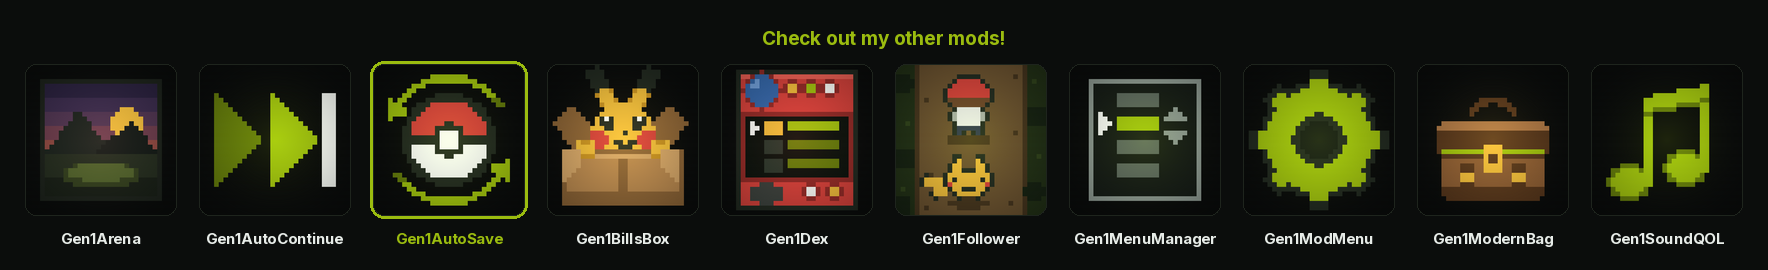
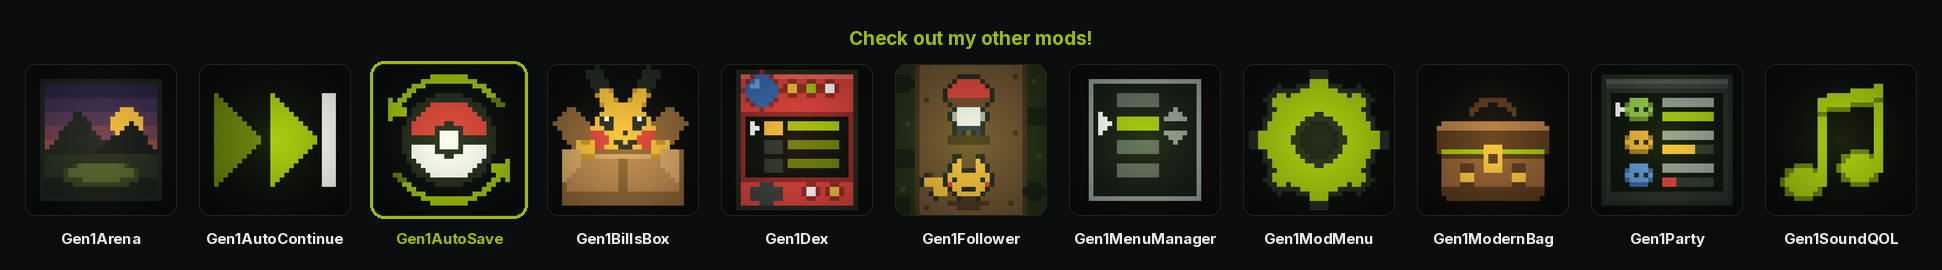
Add Gen1Party to the index, and correct Gen1Dex's entry
Gen1Party is the eleventh mod: mods/Wild@Gen1Party with its meta, its
description and the icon tools/make_icons.py now draws for it -- a party
screen with three members in three different colours and the three HP bar
states the game actually shows, which is the mod's whole argument in one
picture. Three rows rather than six because six at this size are six stripes,
and the point being made is that the rows differ from each other.

The lineup strips are regenerated, so every per-mod banner now carries eleven
tiles instead of ten and site/banners/lineup-Gen1Party.png exists for that
repo to point at. Redrawing all eleven icons leaves the other ten
byte-identical, which is what make_icons.py promises and worth having
confirmed rather than assumed.

site/data/index.json is deliberately NOT in this commit. build_index.py owns
it and the Build index workflow commits it with a token; running it here
without one 403s on most repos' releases, and committing that would publish a
feed describing errors instead of versions. A push touching mods/** is exactly
what triggers the rebuild.

Also corrects the Gen1Dex entry, which still described the mod as it shipped
at 1.0.0: the entry pages are walked with LEFT and RIGHT now rather than
cycled with A, the list draws six rows rather than seven since it gained its
header and footer boxes, and six palettes are on screen at once rather than
seven. Its version seed follows to 1.1.0, though the feed resolves that from
Releases either way.
[…]

diff --git a/tools/make_icons.py b/tools/make_icons.py
@@ -491,6 +491,64 @@ def mod_menu():
     return a, GREEN
 
 
+def party():
+    """The party screen, with every POKeMON in a colour of its own.
+
+    The mod's whole argument in one picture.  Vanilla lays a single palette
+    zone over the icon column -- all six members at once -- so a party comes
+    out in one colour; here each row wears its own, and the HP bars are the
+    three the game actually draws, green through yellow to red.
+
+    Three rows rather than six because six at this size are six stripes: the
+    point being made is that the rows DIFFER from each other, and three big
+    enough to read carries that where six too small to read does not.
+
+    The rows are seven pixels apart and each POKeMON is drawn no more than
+    five tall, which is what keeps them three creatures rather than one
+    column -- at six they touch, and touching reads as a single blob with
+    colour bands across it.  The cursor sits in a lane of its own at the far
+    left for the same reason: over the first POKeMON it looked like part of
+    it rather than like something pointing at it.
+    """
+    a = Art()
+    shell = (0x3b, 0x41, 0x3c)                     # the console around it
+    shell_l = (0x50, 0x58, 0x51)
+    shell_d = (0x2a, 0x2f, 0x2b)
+    screen = (0x0d, 0x14, 0x0e)
+    bar_bg = (0x2b, 0x38, 0x2c)
+
+    a.rect(2, 2, 29, 29, shell)                    # the case, lit from above
+    a.rect(2, 2, 29, 3, shell_l)
+    a.rect(2, 28, 29, 29, shell_d)
+    for x in (2, 29):                              # softened corners
+        a.px(x, 2, BG)
+        a.px(x, 29, BG)
+    a.frame(2, 2, 29, 29, INK)
+
+    a.rect(3, 5, 28, 27, shell_d)                  # the screen, in its recess
+    a.rect(4, 6, 27, 26, screen)
+
+    # Each row: the POKeMON in its own colour, its name, and its HP.  The
+    # three bar colours are the game's own thresholds rather than a gradient
+    # chosen here -- green, yellow, red is what the party menu shows.
+    rows = (
+        (7,  (0x8c, 0xc0, 0x4a), (0x5e, 0x86, 0x2c), GREEN, 11),  # full
+        (14, (0xe0, 0xa8, 0x3c), (0x9c, 0x71, 0x22), AMBER, 7),   # about half
+        (21, (0x5a, 0x8f, 0xd0), (0x38, 0x5f, 0x93), RED, 3),     # nearly out
+    )
+    for top, body, body_d, bar, fill in rows:
+        a.ellipse(10, top + 2.5, 2.9, 2.6, body_d)     # the POKeMON, on a rim
+        a.ellipse(10, top + 2.2, 2.6, 2.3, body)
+        a.px(9, top + 2, INK)                          # two eyes, so it reads
+        a.px(11, top + 2, INK)                         # as a creature, not a dot
+        a.rect(15, top, 25, top + 1, MUTED)            # the name
+        a.rect(15, top + 3, 25, top + 4, bar_bg)       # the HP bar, and its fill
+        a.rect(15, top + 3, 14 + fill, top + 4, bar)
+
+    arrow(a, 5, 9, 2, "right", WHITE)              # the cursor, in its own lane
+    return a, GREEN
+
+
 ICONS = {
     "gen1autosave": autosave,
     "gen1_auto_continue": auto_continue,
@@ -502,6 +560,7 @@ ICONS = {
     "gen1_sound_qol": sound_qol,
     "Gen1Dex": dex,
     "gen1_mod_menu": mod_menu,
+    "Gen1Party": party,
 }
 
 

diff --git a/mods/Wild@Gen1Party/description.md b/mods/Wild@Gen1Party/description.md
@@ -1,0 +1,76 @@
+The party menu, drawn like the rest of the set.
+
+## Every POKéMON in its own colours
+
+Vanilla lays **one** palette zone over the icon column — all six members at
+once — so every POKéMON in your party comes out wearing the same salmon. This
+replaces that single zone with one per member, so each wears its own species
+colours: the same thing Gen1Dex does for its rows and Gen1BillsBox does for its
+grid. A party opened next to either of them stops looking like a different
+game.
+
+The base palette becomes the plain grey ramp too, so the names, numbers and
+boxes read as black line art rather than sitting under a bar palette standing
+in for a screen palette.
+
+An icon mod's authored full-colour art is left exactly as its author drew it.
+Those icons are detected per **mon** rather than per species — so a shiny tells
+itself apart from an ordinary one of its kind — then marked true-colour and
+kept out of the palette pass, which keys off the red channel and would
+otherwise paint an orange pixel white.
+
+## Nothing runs off the edge
+
+The vanilla row is packed to the last pixel of the screen: the status column
+runs 136–160 and the HP numbers 104–160. That is authentic, and it is why an
+`FNT` reads as clipped rather than placed.
+
+Both stop at **152** now, the same right margin every other screen in the set
+keeps — and nothing was given up to pay for it:
+
+- The **status** moves from a fixed `x=136` to right-aligned on 152. Free: the
+  level always ends at 128, because `PrintLevel` overwrites the `<LV>` tile
+  with the third digit at L100, so two digits and three end in the same place.
+- The **HP bar** moves one tile left, from tile 5 to tile 4, and the numbers
+  right-align on 152. The bar keeps **all six segments** — it is the
+  at-a-glance read on this screen — and the gap it moves into is the one
+  between the icon and the bar that nothing was using.
+- The **numbers** keep their `%3d/%3d` padding rather than becoming variable
+  width, because that padding is load-bearing: the bar's right cap sits under
+  the first glyph, and a *space* over that cap is what stops the two colliding.
+
+## What it does not touch
+
+`PartyMenu` is not one screen but seven behind a single id — the field menu,
+the battle switch, the forced switch after a faint, the item target, the TM/HM
+teach list with its `ABLE` / `NOT ABLE` column, the `SOFTBOILED` donor, and the
+evolution-stone list. Each has its own input rules, its own bottom message and
+its own idea of what A does.
+
+This mod replaces **two methods**, `draw` and `sgbPalettes`, and nothing else.
+It has an opinion about how the party *looks* and none at all about what it
+does. The test suite checks that directly: it diffs every field the vanilla
+constructor sets against the one this mod hands back, and fails if any of them
+went missing.
+
+## Options
+
+**SPECIES COLOURS** (on) — every member in its own species colours over the
+grey ramp. Off restores the vanilla answer exactly, for anyone who wants the
+1996 screen with nothing changed but the margins.
+
+## Known limits
+
+There is **no header box** on this screen and there cannot be: six members at
+16 pixels fill rows 0–11 exactly and the message box owns rows 12–17, so a
+boxed top would cost either a party slot or the second line the TM/HM prompt
+needs. The message box is the footer instead, and was already the right chrome.
+
+There is **no ruled icon column** either, unlike the Pokédex list. That rule
+needs the names to start at 32; here they start at 24, and the eight pixels can
+only come out of the name column — which holds a **nickname**, and a nickname
+is the player's own text. Cutting `CHARMANDER` to `CHARMANDE` to make room for
+a hairline is not a trade worth making.
+
+A three-digit HP still lands a digit on the bar's right cap, exactly as it does
+in vanilla.

diff --git a/README.md b/README.md
@@ -8,7 +8,7 @@
 </p>
 
 <p align="center">
-  <a href="https://wild1walker.github.io/Gen1Wild/"><img src="site/banners/lineup.png" alt="Gen1Arena, Gen1AutoContinue, Gen1AutoSave, Gen1BillsBox, Gen1Dex, Gen1Follower, Gen1MenuManager, Gen1ModMenu, Gen1ModernBag and Gen1SoundQOL" width="920"></a>
+  <a href="https://wild1walker.github.io/Gen1Wild/"><img src="site/banners/lineup.png" alt="Gen1Arena, Gen1AutoContinue, Gen1AutoSave, Gen1BillsBox, Gen1Dex, Gen1Follower, Gen1MenuManager, Gen1ModMenu, Gen1ModernBag, Gen1Party and Gen1SoundQOL" width="920"></a>
 </p>
 
 ## What is in the index
@@ -24,6 +24,7 @@
 | <img src="mods/Wild@Gen1MenuManager/thumbnail.png" width="54" alt=""> | **[Gen1MenuManager](https://github.com/wild1walker/Gen1MenuManager)** | Rearrange the START menu and the Pokémon Center PC menu: reorder rows, hide the ones you never touch, and pin field items and moves to rows of their own. |
 | <img src="mods/Wild@gen1_mod_menu/thumbnail.png" width="54" alt=""> | **[Gen1ModMenu](https://github.com/wild1walker/Gen1ModMenu)** | The mod manager, redrawn in the game's own OPTION-screen idiom: framed cards with the name on its own line and its value below, plus sorting, filters and a RESET DEFAULTS row on every mod's options page. |
 | <img src="mods/Wild@gen1_modern_bag/thumbnail.png" width="54" alt=""> | **[Gen1ModernBag](https://github.com/wild1walker/Gen1ModernBag)** | Seven inventory pockets with auto-sorting, Favorites, pinned items, quick search, TM/HM tools and no capacity limit. Derived from FAFF0x's Modern Bag. |
+| <img src="mods/Wild@Gen1Party/thumbnail.png" width="54" alt=""> | **[Gen1Party](https://github.com/wild1walker/Gen1Party)** | The party menu with every POKéMON in its own species colours instead of all six sharing one, and the status and HP numbers pulled in off the screen edge. |
 | <img src="mods/Wild@gen1_sound_qol/thumbnail.png" width="54" alt=""> | **[Gen1SoundQOL](https://github.com/wild1walker/Gen1SoundQOL)** | The low-HP battle siren beeps once instead of looping forever, and on mobile the game mutes itself when another app takes the audio. |
 
 Every icon above is the one the card carries in **FIND MODS**, drawn by

diff --git a/mods/Wild@Gen1Dex/description.md b/mods/Wild@Gen1Dex/description.md
@@ -9,7 +9,7 @@ row, resolved down the same path the party menu uses, so a menu-icon mod
 
 A species you have not discovered is a **black silhouette**: its shape is
 there, its colours are not, and it fills back in the moment you see one. Every
-discovered POKéMON on screen wears its own species colours — seven palettes at
+discovered POKéMON on screen wears its own species colours — six palettes at
 once, where the Game Boy could show four.
 
 The silhouette is a draw-time tint rather than a palette zone, which is the
@@ -30,7 +30,9 @@ UP on the first row and DOWN on the last wrap to the other end.
 
 ## An entry is three pages
 
-**A** moves between them, **B** closes.
+**LEFT** and **RIGHT** walk between them, wrapping both ways, with an arrow at
+each end of the header saying so. **B** closes. **A** still advances too,
+because that is the key the vanilla page used.
 
 1. **DEX** — the sprite, the kind, height and weight, and the description.
    This is the vanilla page, kept: A turns the description's own pages first,
@@ -57,9 +59,10 @@ it, and none at all about what pressing A on one does. Every entry point is
 guarded rather than trusted — a Pokédex that fails to open is worse than a
 vanilla one, so a factory that throws degrades to the builtin.
 
-The icons sit on the vanilla list's own 16-pixel row pitch, which is why the
-list still draws seven rows: the icons were sized to fit the list rather than
-the list moved to fit the icons.
+The icons sit on the vanilla list's own 16-pixel row pitch — sized to fit the
+list rather than the list moved to fit them. The list draws six rows rather
+than the vanilla seven, because the header and footer boxes cost a tile row at
+each end.
 
 ## Settings
 
